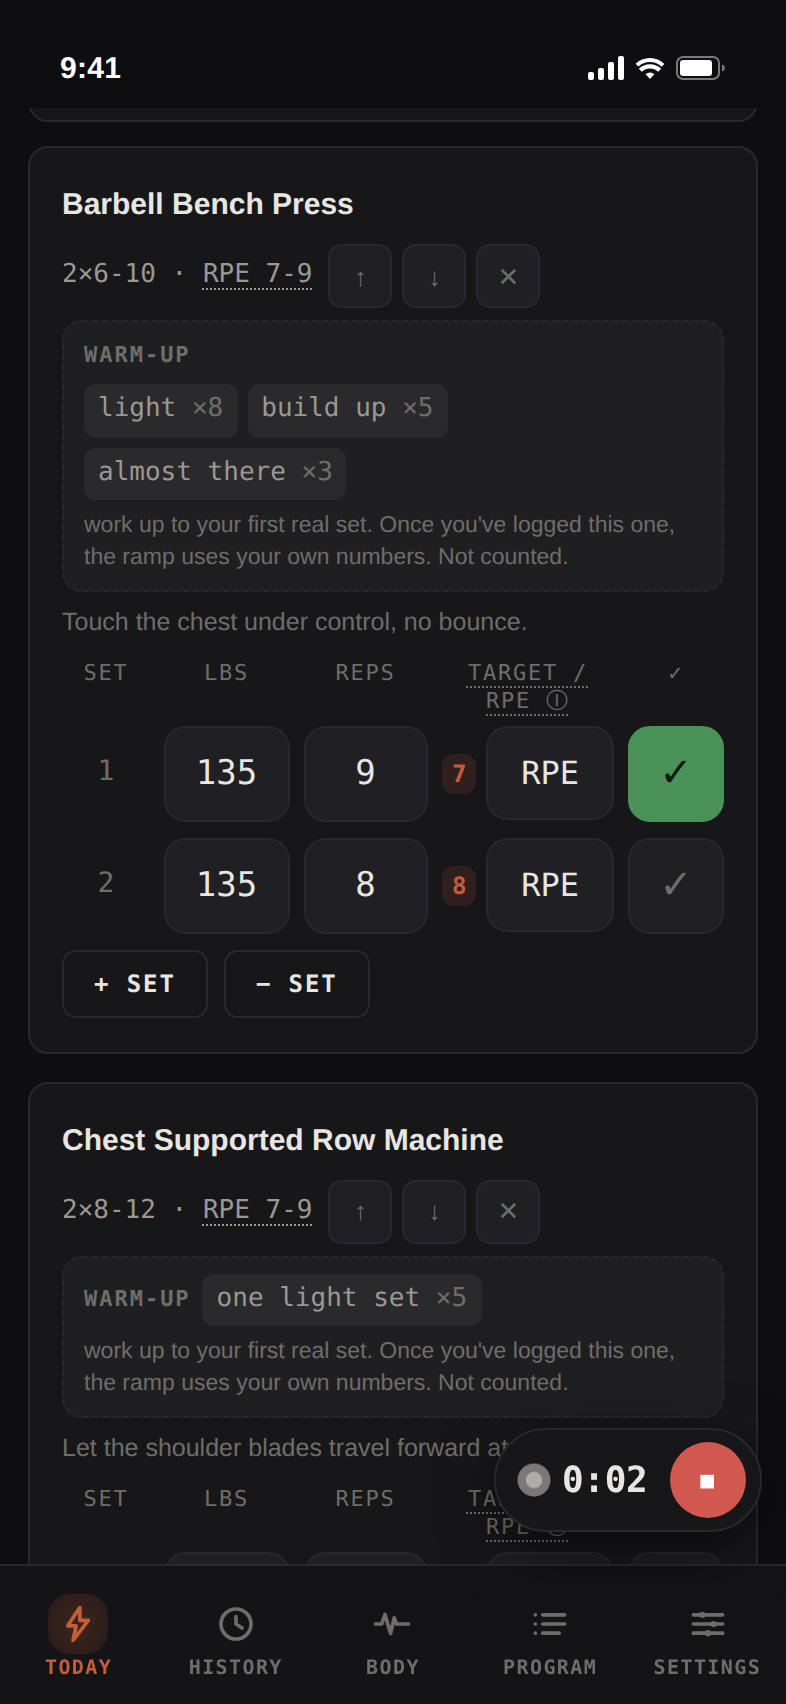
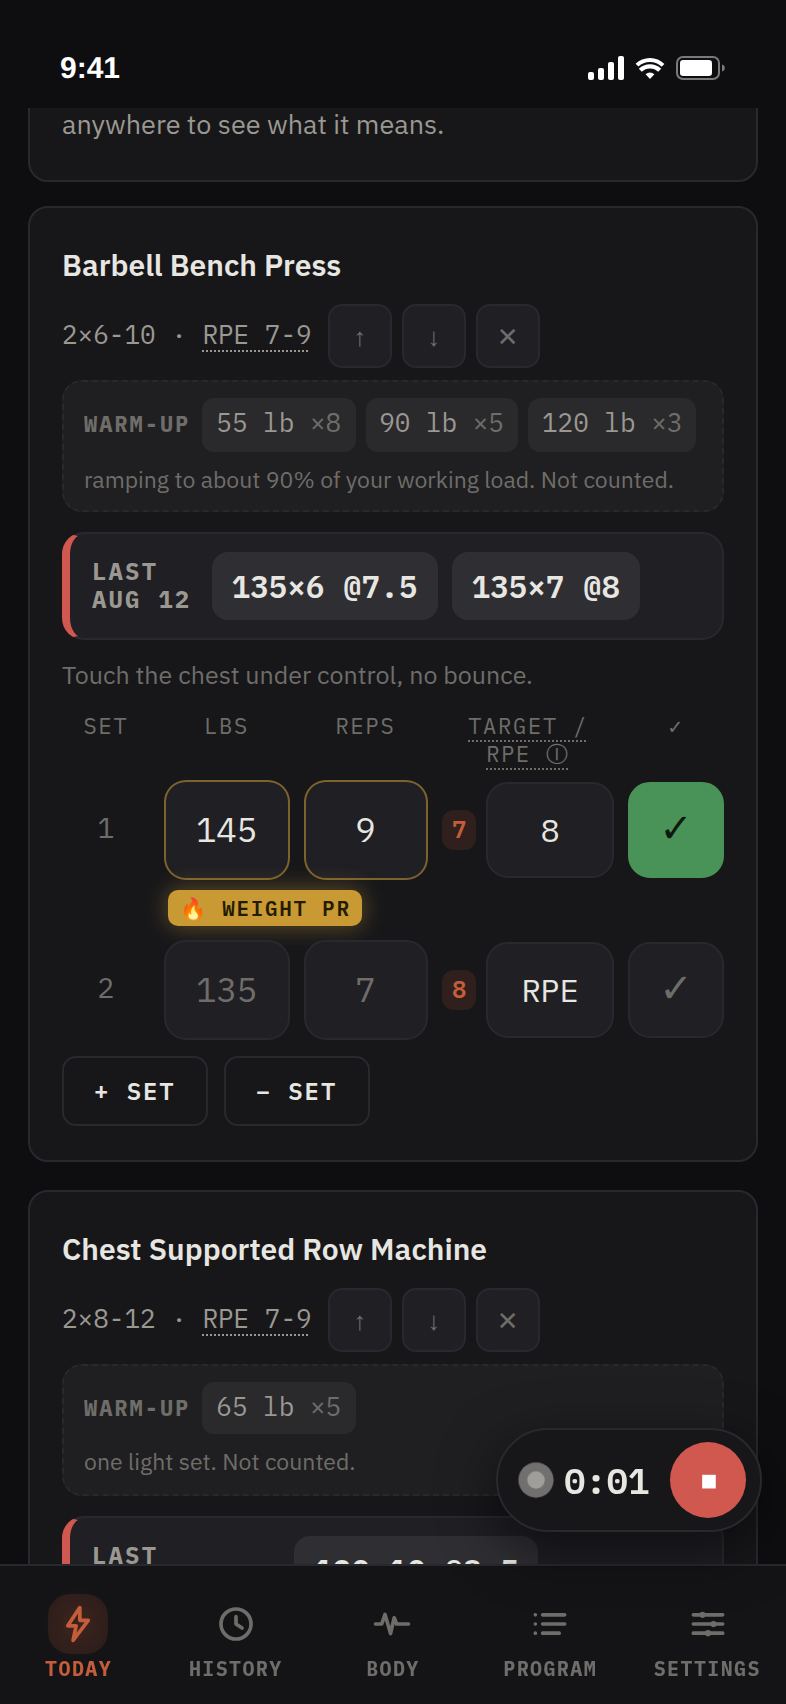
Fix webfont fallback in captures; add app screenshot set
Every screenshot was rendered without the app's webfonts. The Google
Fonts CDN is unreachable from the capture environment, the request
failed silently, and the page fell back to system faces — document.fonts
reported zero loaded faces. IBM Plex has different metrics and weights
than the fallbacks, which is exactly what read as the type being subtly
wrong. Captures now intercept the app's own stylesheet request and fulfil
it with the real Plex faces inlined, and assert the faces actually loaded
before shooting rather than trusting the request.

The hero screenshot on the site is regenerated the same way. It is also
taken against a real training history now, so the card shows what that
lift did on its previous session, a warm-up ramp computed from the
working load, and a weight PR — none of which a first-ever session can
display. Alt text updated to match.

Adds screenshots/: twelve screens at the iPhone 15's native 1179x2556
with an iOS status bar composited in, for use in external mockups. The
history behind them was produced by playing four full sessions through
the app's own UI, so grades, PRs, tonnage and the muscle maps are all
computed by the app rather than authored.

The zip bundle is gitignored — it only duplicates the PNGs beside it.

Claude-Session: https://claude.ai/code/session_01JgrRAirDJitYFRfhngGAkK

diff --git a/index.html b/index.html
@@ -118,7 +118,7 @@
           <img class="app-shot"
                src="assets/app-screen.png"
                width="786" height="1704"
-               alt="Element 26 on iPhone: an Upper A session in progress, with warm-up ramp, a coaching cue, and the first working set of Barbell Bench Press logged at 135 lb for 9 reps."
+               alt="Element 26 on iPhone: an Upper A session in progress. Barbell Bench Press shows a generated warm-up ramp, what the same lift did on Aug 12, and a first working set logged at 145 lb for 9 reps, flagged as a weight PR."
                loading="lazy" decoding="async">
           <span class="island" aria-hidden="true"></span>
         </div>
